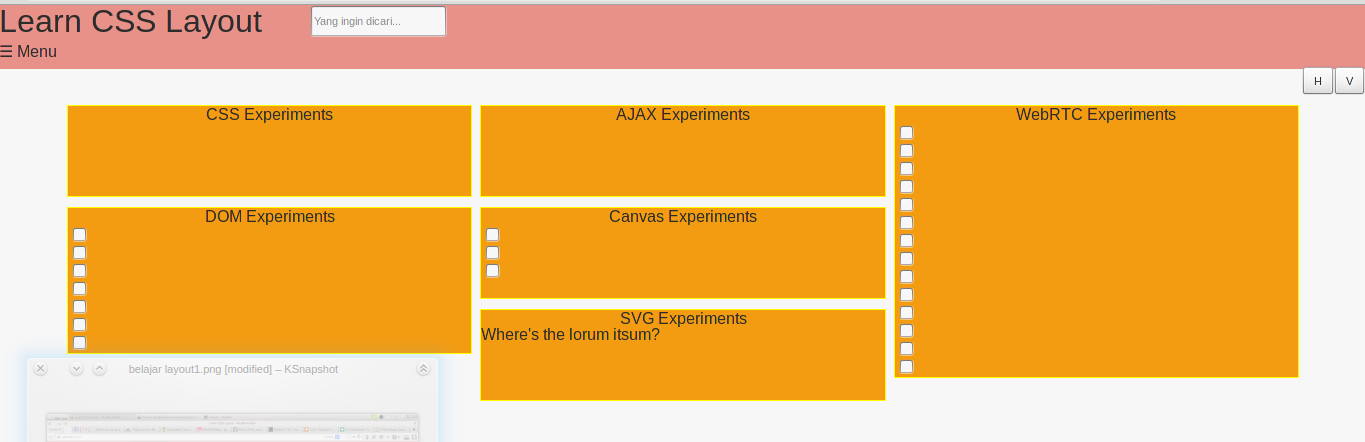
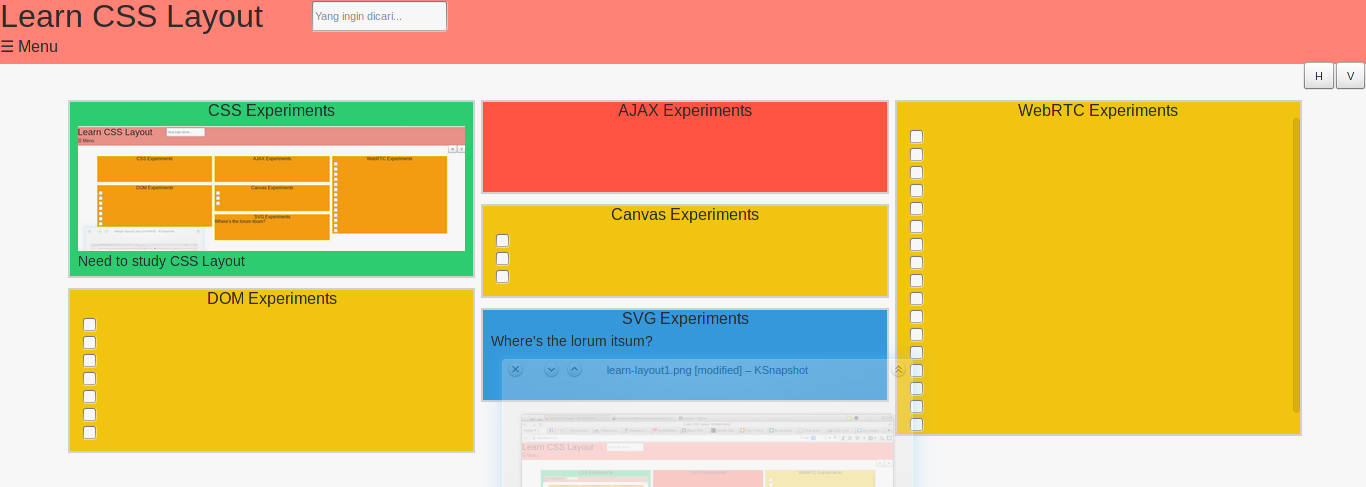
changed the modules

diff --git a/index.html b/index.html
@@ -1,1 +1,1 @@
-<!DOCTYPE html><html><head><meta charset="utf-8"><meta http-equiv="X-UA-Compatible" content="IE=edge"><title>Learn CSS Layout</title><link rel="stylesheet" href="css/style.css"></head><body><header class="l-header l-fixed-top header-main"><section class="l-group"><h1 class="title-main">Learn CSS Layout</h1><input type="text" placeholder="Yang ingin dicari..." class="search-input"></section><section class="l-group"><!-- TODO still incorrect--><input id="toggle" type="checkbox" class="toggle-input"><label for="toggle" class="toggle-label">☰ Menu</label><nav class="category-navigation"><ul><li><a href="#" title="Active">Active</a><a href="#" title="Archived">Archived</a><a href="#" title="Reminders">Reminders</a></li></ul></nav><!-- to be placed on the right--><!-- TODO incorrect--><div class="l-right"><button class="orientation-button">H</button><button class="orientation-button">V</button></div></section></header><div role="main" class="l-content l-group l-article-group"><div class="l-masonry-column"><article class="column-item column-item-green"><header class="column-item-header"><h2>CSS Experiments</h2></header><div class="note note-image"><img src="./pics/learn-layout.png"></div><div class="note note-text"><p>Need to study CSS Layout</p></div></article><article class="column-item column-item-yellow"><header class="column-item-header"><h2>DOM Experiments</h2></header><ul class="note todo-list"><li><input type="checkbox"><input type="checkbox"><input type="checkbox"><input type="checkbox"><input type="checkbox"><input type="checkbox"><input type="checkbox"></li></ul></article><article class="column-item column-item-red"><header class="column-item-header"><h2>AJAX Experiments</h2></header></article><article class="column-item column-item-yellow"><header class="column-item-header"><h2>Canvas Experiments</h2></header><ul class="note todo-list"><li><input type="checkbox"><input type="checkbox"><input type="checkbox"></li></ul></article><article class="column-item column-item-blue"><header class="column-item-header"><h2>SVG Experiments</h2></header><div class="note note-text"><p>Where's the lorum itsum?</p></div></article><article class="column-item column-item-yellow"><header class="column-item-header"><h2>WebRTC Experiments</h2></header><ul class="note todo-list"><li><input type="checkbox"><input type="checkbox"><input type="checkbox"><input type="checkbox"><input type="checkbox"><input type="checkbox"><input type="checkbox"><input type="checkbox"><input type="checkbox"><input type="checkbox"><input type="checkbox"><input type="checkbox"><input type="checkbox"><input type="checkbox"><input type="checkbox"><input type="checkbox"><input type="checkbox"><input type="checkbox"></li></ul></article></div></div><!-- this is meant to be a footer --><!-- TODO still incorrect--><footer class="l-bottom"><p>This is a footer</p></footer></body></html>
+<!DOCTYPE html><html><head><meta charset="utf-8"><meta http-equiv="X-UA-Compatible" content="IE=edge"><title>Learn CSS Layout</title><link rel="stylesheet" href="css/style.css"></head><body><header class="l-header l-fixed-top header-main"><section class="l-group"><h1 class="title-main">Learn CSS Layout</h1><input type="text" placeholder="Yang ingin dicari..." class="search-input"></section><section class="l-group"><!-- TODO still incorrect--><input id="toggle" type="checkbox" class="toggle-input"><label for="toggle" class="toggle-label">☰ Menu</label><nav class="category-navigation"><ul><li><a href="#" title="Active">Active</a><a href="#" title="Archived">Archived</a><a href="#" title="Reminders">Reminders</a></li></ul></nav><!-- to be placed on the right--><!-- TODO incorrect--><div class="l-right"><button class="orientation-button">H</button><button class="orientation-button">V</button></div></section></header><div role="main" class="l-content l-group l-article-group"><div class="l-masonry-column"><article class="column-item note note-green"><header class="note-header"><h2>CSS Experiments</h2></header><div class="note-content"><div class="note-image"><img src="./pics/learn-layout.png"></div><div class="note-text"><p>Need to study CSS Layout</p></div></div></article><article class="column-item note note-yellow"><header class="note-header"><h2>DOM Experiments</h2></header><div class="note-content"><ul class="note-todo"><li><input type="checkbox"><input type="checkbox"><input type="checkbox"><input type="checkbox"><input type="checkbox"><input type="checkbox"><input type="checkbox"></li></ul></div></article><article class="column-item note note-red"><header class="note-header"><h2>AJAX Experiments</h2></header><div class="note-content"></div></article><article class="column-item note note-yellow"><header class="note-header"><h2>Canvas Experiments</h2></header><div class="note-content"><ul class="note-todo"><li><input type="checkbox"><input type="checkbox"><input type="checkbox"></li></ul></div></article><article class="column-item note note-blue"><header class="note-header"><h2>SVG Experiments</h2></header><div class="note-content"><div class="note-text"><p>Where's the lorum itsum?</p></div></div></article><article class="column-item note note-yellow"><header class="note-header"><h2>WebRTC Experiments</h2></header><div class="note-content"><ul class="note-todo"><li><input type="checkbox"><input type="checkbox"><input type="checkbox"><input type="checkbox"><input type="checkbox"><input type="checkbox"><input type="checkbox"><input type="checkbox"><input type="checkbox"><input type="checkbox"><input type="checkbox"><input type="checkbox"><input type="checkbox"><input type="checkbox"><input type="checkbox"><input type="checkbox"><input type="checkbox"><input type="checkbox"></li></ul></div></article></div></div><!-- this is meant to be a footer --><!-- TODO still incorrect--><footer class="l-bottom"><p>This is a footer</p></footer></body></html>

diff --git a/less/modules.less b/less/modules.less
@@ -60,38 +60,46 @@ label.toggle-label {
     vertical-align: middle;
 }
 
+/**
+ * COLUMNS
+ */
+
 .column-item {
-    border: 1px solid yellow;
     min-height: 90px;
+    border: 2px #D0D0D0 solid;
 }
 
-.column-item-header {
+/**
+ * NOTE
+ */
+
+.note-header {
     text-align: center;
 }
 
-.column-item-yellow {
+.note-yellow {
     background-color: @yellow-color;
 }
 
-.column-item-blue {
+.note-blue {
     background-color: @blue-color;
 }
 
-.column-item-green {
+.note-green {
     background-color: @green-color;
 }
 
-.column-item-red {
+.note-red {
     background-color: @red-color;
 }
 
-.note {
-    padding: 6px;
+.note-content {
+    padding: 8px;
     max-height: 300px;
     overflow-x: auto;
 }
 
-.todo-list input {
+.note-todo input {
     display: block;
 }
 
@@ -100,3 +108,7 @@ label.toggle-label {
     height: 80%;
 }
 
+.note-text p {
+    font-size: 0.9em;
+    font-color: #323232;    
+}

diff --git a/css/style.css b/css/style.css
@@ -246,34 +246,44 @@ label.toggle-label:hover {
   height: 29px;
   vertical-align: middle;
 }
+/**
+ * COLUMNS
+ */
 .column-item {
-  border: 1px solid yellow;
   min-height: 90px;
+  border: 2px #D0D0D0 solid;
 }
-.column-item-header {
+/**
+ * NOTE
+ */
+.note-header {
   text-align: center;
 }
-.column-item-yellow {
+.note-yellow {
   background-color: #f1c40f;
 }
-.column-item-blue {
+.note-blue {
   background-color: #3498db;
 }
-.column-item-green {
+.note-green {
   background-color: #2ecc71;
 }
-.column-item-red {
+.note-red {
   background-color: #ff5442;
 }
-.note {
-  padding: 6px;
+.note-content {
+  padding: 8px;
   max-height: 300px;
   overflow-x: auto;
 }
-.todo-list input {
+.note-todo input {
   display: block;
 }
 .note-image img {
   width: 100%;
   height: 80%;
+}
+.note-text p {
+  font-size: 0.9em;
+  font-color: #323232;
 }

diff --git a/css/modules.css b/css/modules.css
@@ -46,34 +46,44 @@ label.toggle-label:hover {
   height: 29px;
   vertical-align: middle;
 }
+/**
+ * COLUMNS
+ */
 .column-item {
-  border: 1px solid yellow;
   min-height: 90px;
+  border: 2px #D0D0D0 solid;
 }
-.column-item-header {
+/**
+ * NOTE
+ */
+.note-header {
   text-align: center;
 }
-.column-item-yellow {
+.note-yellow {
   background-color: #f1c40f;
 }
-.column-item-blue {
+.note-blue {
   background-color: #3498db;
 }
-.column-item-green {
+.note-green {
   background-color: #2ecc71;
 }
-.column-item-red {
+.note-red {
   background-color: #ff5442;
 }
-.note {
-  padding: 6px;
+.note-content {
+  padding: 8px;
   max-height: 300px;
   overflow-x: auto;
 }
-.todo-list input {
+.note-todo input {
   display: block;
 }
 .note-image img {
   width: 100%;
   height: 80%;
+}
+.note-text p {
+  font-size: 0.9em;
+  font-color: #323232;
 }
